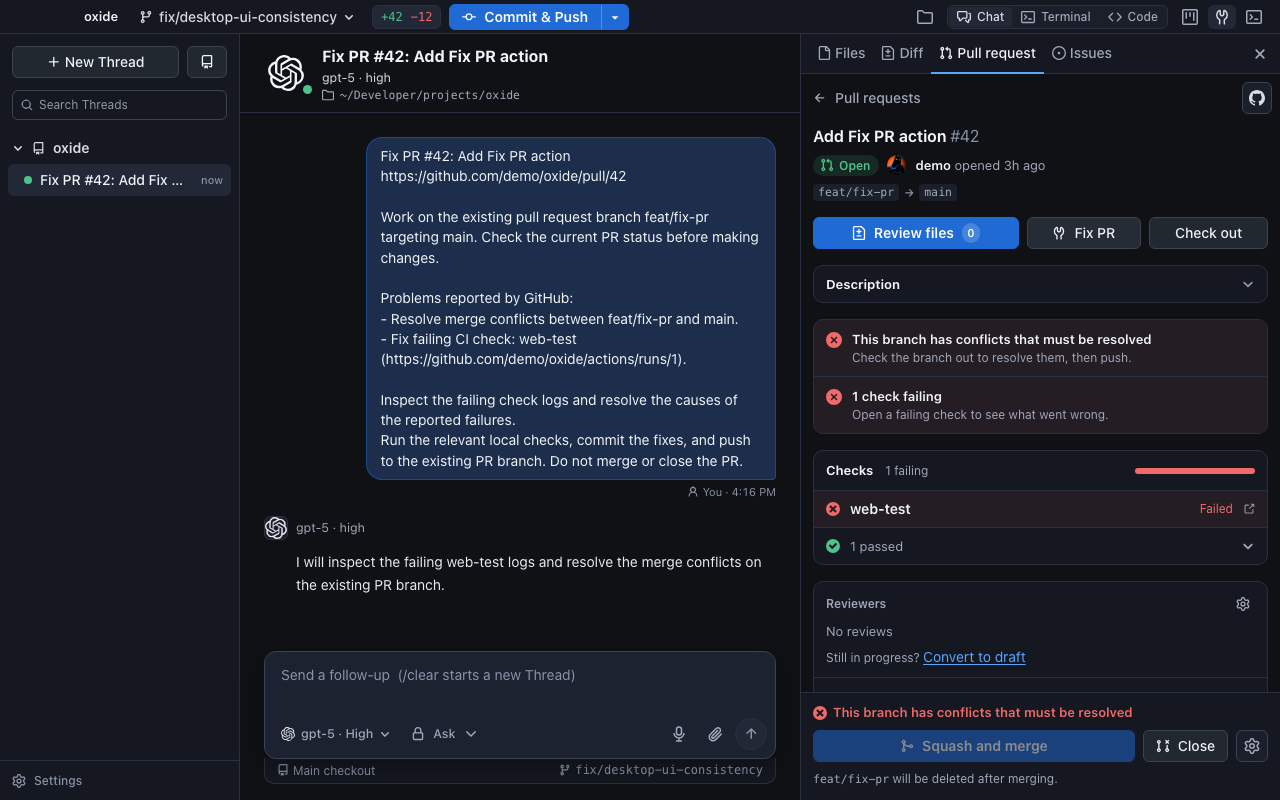
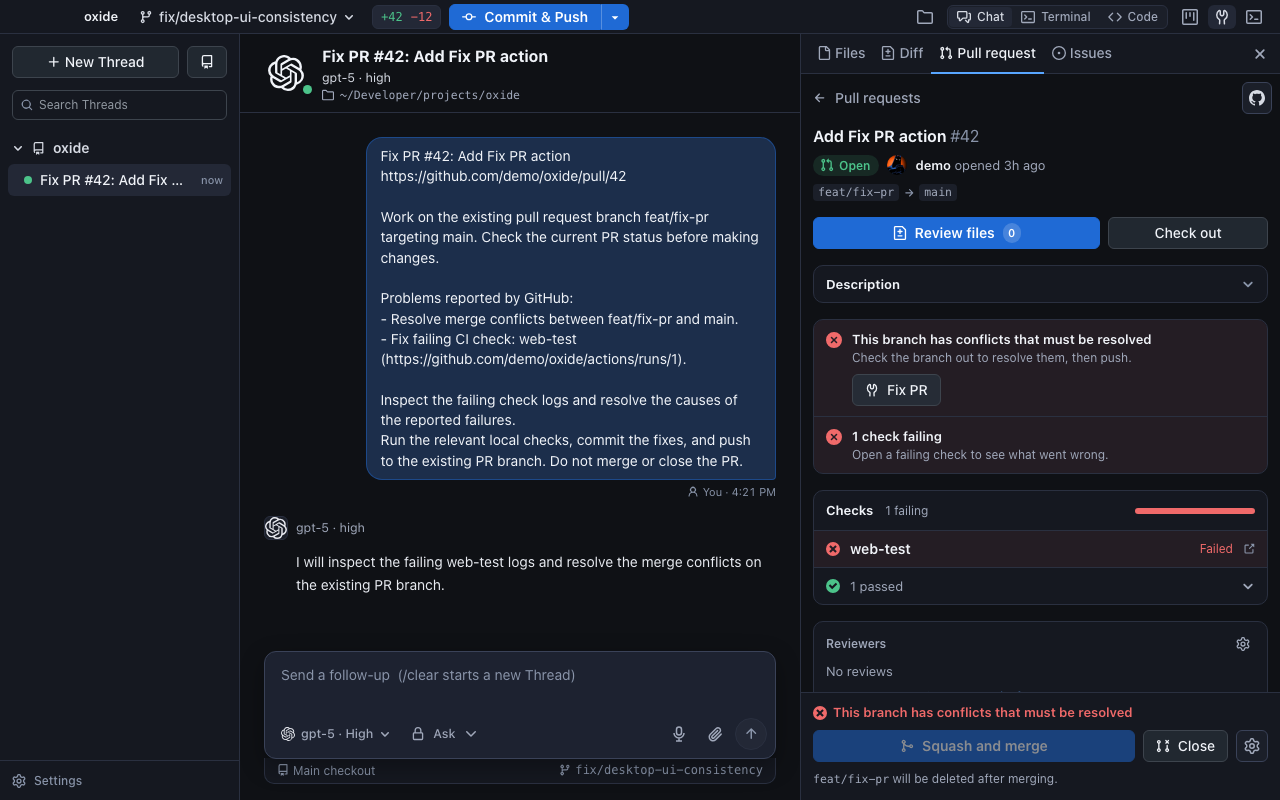
fix(pr): place Fix PR beside failure messages

diff --git a/web/src/PullRequestBrowser.tsx b/web/src/PullRequestBrowser.tsx
@@ -393,6 +393,19 @@ export function PullRequestReview({
   const setDraft = (draft: boolean) => change("ready", () => commands.setPullRequestDraft(projectId, number, draft));
   const edit = (partial: Partial<PullRequestEdit>) =>
     change("edit", () => commands.editPullRequest(projectId, number, { ...NO_EDIT, ...partial }));
+  const fixAction = fixPrompt && (
+    <button
+      className={fixing ? "pending" : undefined}
+      disabled={busy}
+      title="Fix failing checks and merge conflicts in a new Thread with your default agent"
+      onClick={() => void fixPullRequest()}
+    >
+      <Working on={fixing} label="Starting fix…">
+        <ToolsIcon size={14} /> Fix PR
+      </Working>
+    </button>
+  );
+  const fixInMergeStatus = requirements.some((r) => r.tone === "bad" && (r.kind === "conflicts" || r.kind === "checks"));
 
   return (
     <div className="pr-review">
@@ -439,18 +452,6 @@ export function PullRequestReview({
           </button>
           {live && (
             <button
-              className={fixing ? "pending" : undefined}
-              disabled={busy || fixPrompt === null}
-              title={fixPrompt ? "Fix failing checks and merge conflicts in a new Thread with your default agent" : "No failing checks or merge conflicts to fix"}
-              onClick={() => void fixPullRequest()}
-            >
-              <Working on={fixing} label="Starting fix…">
-                <ToolsIcon size={14} /> Fix PR
-              </Working>
-            </button>
-          )}
-          {live && (
-            <button
               className={pending === "checkout" ? "pending" : undefined}
               disabled={busy || git.pickerDisabledReason !== null}
               title={git.pickerDisabledReason ?? "Check this branch out in the main checkout"}
@@ -470,8 +471,9 @@ export function PullRequestReview({
             busy={busy}
             updating={pending === "update"}
             onUpdateBranch={() => void change("update", () => commands.updatePullRequestBranch(projectId, number))}
+            fixAction={fixAction}
           />}
-        <Checks checks={detail.checks} onOpen={(url) => void openLink(url)} />
+        <Checks checks={detail.checks} onOpen={(url) => void openLink(url)} fixAction={fixInMergeStatus ? null : fixAction} />
         <PullRequestPeople
           projectId={projectId}
           detail={detail}

diff --git a/web/src/PullRequestReview.test.tsx b/web/src/PullRequestReview.test.tsx
@@ -95,6 +95,10 @@ it("requests a fix with the PR link, conflicts and every failed check, including
     ],
   }) });
   await render();
+  const fix = button("Fix PR");
+  expect(host.querySelector(".pr-actions")!.contains(fix)).toBe(false);
+  expect(fix.closest(".pr-req")?.textContent).toContain("conflicts that must be resolved");
+  expect(host.querySelectorAll(".pr-fix-action button, .pr-checks-fix button")).toHaveLength(1);
   await click(button("Fix PR"));
   expect(onFixPullRequest).toHaveBeenCalledTimes(1);
   const prompt = onFixPullRequest.mock.calls[0][0];
@@ -121,9 +125,27 @@ it.each(["clean", "blocked", "behind", "unknown"] as const)("does not offer a re
     { name: "rust", state: "pending", url: null, required: true },
   ] }) });
   await render();
-  expect(button("Fix PR").disabled).toBe(true);
-  await click(button("Fix PR"));
+  expect(button("Fix PR")).toBeUndefined();
   expect(onFixPullRequest).not.toHaveBeenCalled();
+});
+
+it("places Fix PR directly with the failing CI message", async () => {
+  await render();
+  expect(button("Fix PR").closest(".pr-req")?.textContent).toContain("1 check failing");
+  await click(button("Fix PR"));
+  expect(onFixPullRequest).toHaveBeenCalledWith(expect.stringContaining("Fix failing CI check: web"));
+});
+
+it("places Fix PR in Checks when only an optional check fails", async () => {
+  vi.mocked(commands.pullRequestDetail).mockResolvedValue({ status: "ok", data: detail({ checks: [
+    { name: "required", state: "success", url: null, required: true },
+    { name: "optional", state: "failure", url: null, required: false },
+  ] }) });
+  await render();
+  expect(button("Fix PR").closest('[aria-label="Checks"]')).not.toBeNull();
+  expect(host.querySelector('[aria-label="Merge status"]')!.contains(button("Fix PR"))).toBe(false);
+  await click(button("Fix PR"));
+  expect(onFixPullRequest).toHaveBeenCalledWith(expect.stringContaining("Fix failing CI check: optional"));
 });
 
 it.each(["closed", "merged"] as const)("hides Fix PR for a %s PR even when old checks failed", async (phase) => {

diff --git a/web/src/PullRequestChecks.tsx b/web/src/PullRequestChecks.tsx
@@ -6,7 +6,7 @@ const CHECK_WORD = { success: "Passed", failure: "Failed", pending: "Running" } 
 
 /** Checks in a box: what needs attention is listed, what passed folds into one row you can open.
  *  A check with a link opens its run on GitHub, to see what went wrong. */
-export function Checks({ checks, onOpen }: { checks: PullRequestCheck[]; onOpen: (url: string) => void }) {
+export function Checks({ checks, onOpen, fixAction }: { checks: PullRequestCheck[]; onOpen: (url: string) => void; fixAction?: React.ReactNode }) {
   const { failing, pending, passing } = countChecks(checks);
   const all = dedupeChecks(checks);
   // Once branch protection names required checks, the others are shown but do not count.
@@ -40,6 +40,7 @@ export function Checks({ checks, onOpen }: { checks: PullRequestCheck[]; onOpen:
           ))}
         </ul>
       )}
+      {all.some((c) => c.state === "failure") && fixAction && <div className="pr-checks-fix">{fixAction}</div>}
       {passed.length > 0 &&
         (inline ? (
           <ul className="pr-checks">

diff --git a/web/src/PullRequestMerge.tsx b/web/src/PullRequestMerge.tsx
@@ -41,13 +41,16 @@ export function MergeStatus({
   busy,
   updating,
   onUpdateBranch,
+  fixAction,
 }: {
   requirements: MergeRequirement[];
   busy: boolean;
   updating: boolean;
   onUpdateBranch: () => void;
+  fixAction?: React.ReactNode;
 }) {
   if (requirements.length === 0) return null;
+  const repairRequirement = requirements.find((r) => r.tone === "bad" && (r.kind === "conflicts" || r.kind === "checks"));
   return (
     <section className="pr-box pr-status-box" aria-label="Merge status">
       <ul>
@@ -57,6 +60,7 @@ export function MergeStatus({
             <div>
               <p className="pr-req-title">{r.title}</p>
               {r.detail && r.tone !== "ok" && <p className="pr-req-detail">{r.detail}</p>}
+              {r === repairRequirement && fixAction && <div className="pr-fix-action">{fixAction}</div>}
             </div>
             {r.kind === "behind" && (
               <button className={updating ? "pending" : undefined} disabled={busy} onClick={onUpdateBranch}>

diff --git a/web/src/styles.css b/web/src/styles.css
@@ -998,6 +998,8 @@ section.terminal.terminal-hidden { display: none; }
 .pr-views .pr-req-bad > svg { color: var(--red); }
 .pr-views .pr-req-neutral > svg { color: var(--faint); }
 .pr-views .pr-req-bad { background: color-mix(in srgb, var(--red) 7%, transparent); }
+.pr-views .pr-fix-action { margin-top: var(--space-2); }
+.pr-views .pr-checks-fix { padding: var(--space-2) 12px; }
 
 /* Description toggle */
 .pr-views .pr-description { border: 1px solid var(--line); border-radius: 10px; background: var(--bg2); gap: 0; }

diff --git a/docs/ui-review/fix-pr/README.md b/docs/ui-review/fix-pr/README.md
@@ -1,6 +1,8 @@
 # Fix PR
 
-The PR detail action creates a new Thread in the same Project and automatically sends
+Fix PR appears directly beneath the first CI failure or merge conflict message, with
+one action per PR. When only an optional check fails, it appears in the Checks card
+beside the failed results. The action creates a new Thread in the same Project and automatically sends
 the PR URL, failed check names and run URLs, and any merge conflicts to the Provider
 selected in Settings, with its configured Model, Effort and permission mode.
 
@@ -8,7 +10,7 @@ selected in Settings, with its configured Model, Effort and permission mode.
 
 - `node tools/check.mjs fast`: rustfmt, ESLint and TypeScript pass. ESLint reports
   the existing TanStack Virtual/React Compiler warning in `ThreadView.tsx`.
-- `pnpm --dir web test`: 81 files, 504 tests pass, including repair eligibility,
+- `pnpm --dir web test`: 81 files, 506 tests pass, including contextual placement, repair eligibility,
   failed-check deduplication, optional failures, conflicts, pending requests,
   dispatch errors, Settings defaults, automatic sending and draft recovery.
 - `pnpm --dir web build`: passes, with the existing large-chunk warning.
@@ -28,5 +30,5 @@ where the PR surface is supported, open a PR with failed CI and/or conflicts,
 activate Fix PR, verify that the same Project opens a new Thread using current
 Settings defaults, and confirm that the installed Provider receives the PR link
 and appropriate tasks. Verify native approval handling and recovery when the
-Provider cannot start. Passing or pending checks alone must leave Fix PR disabled;
+Provider cannot start. Passing or pending checks alone must not show Fix PR;
 closed and merged PRs must not offer it.
